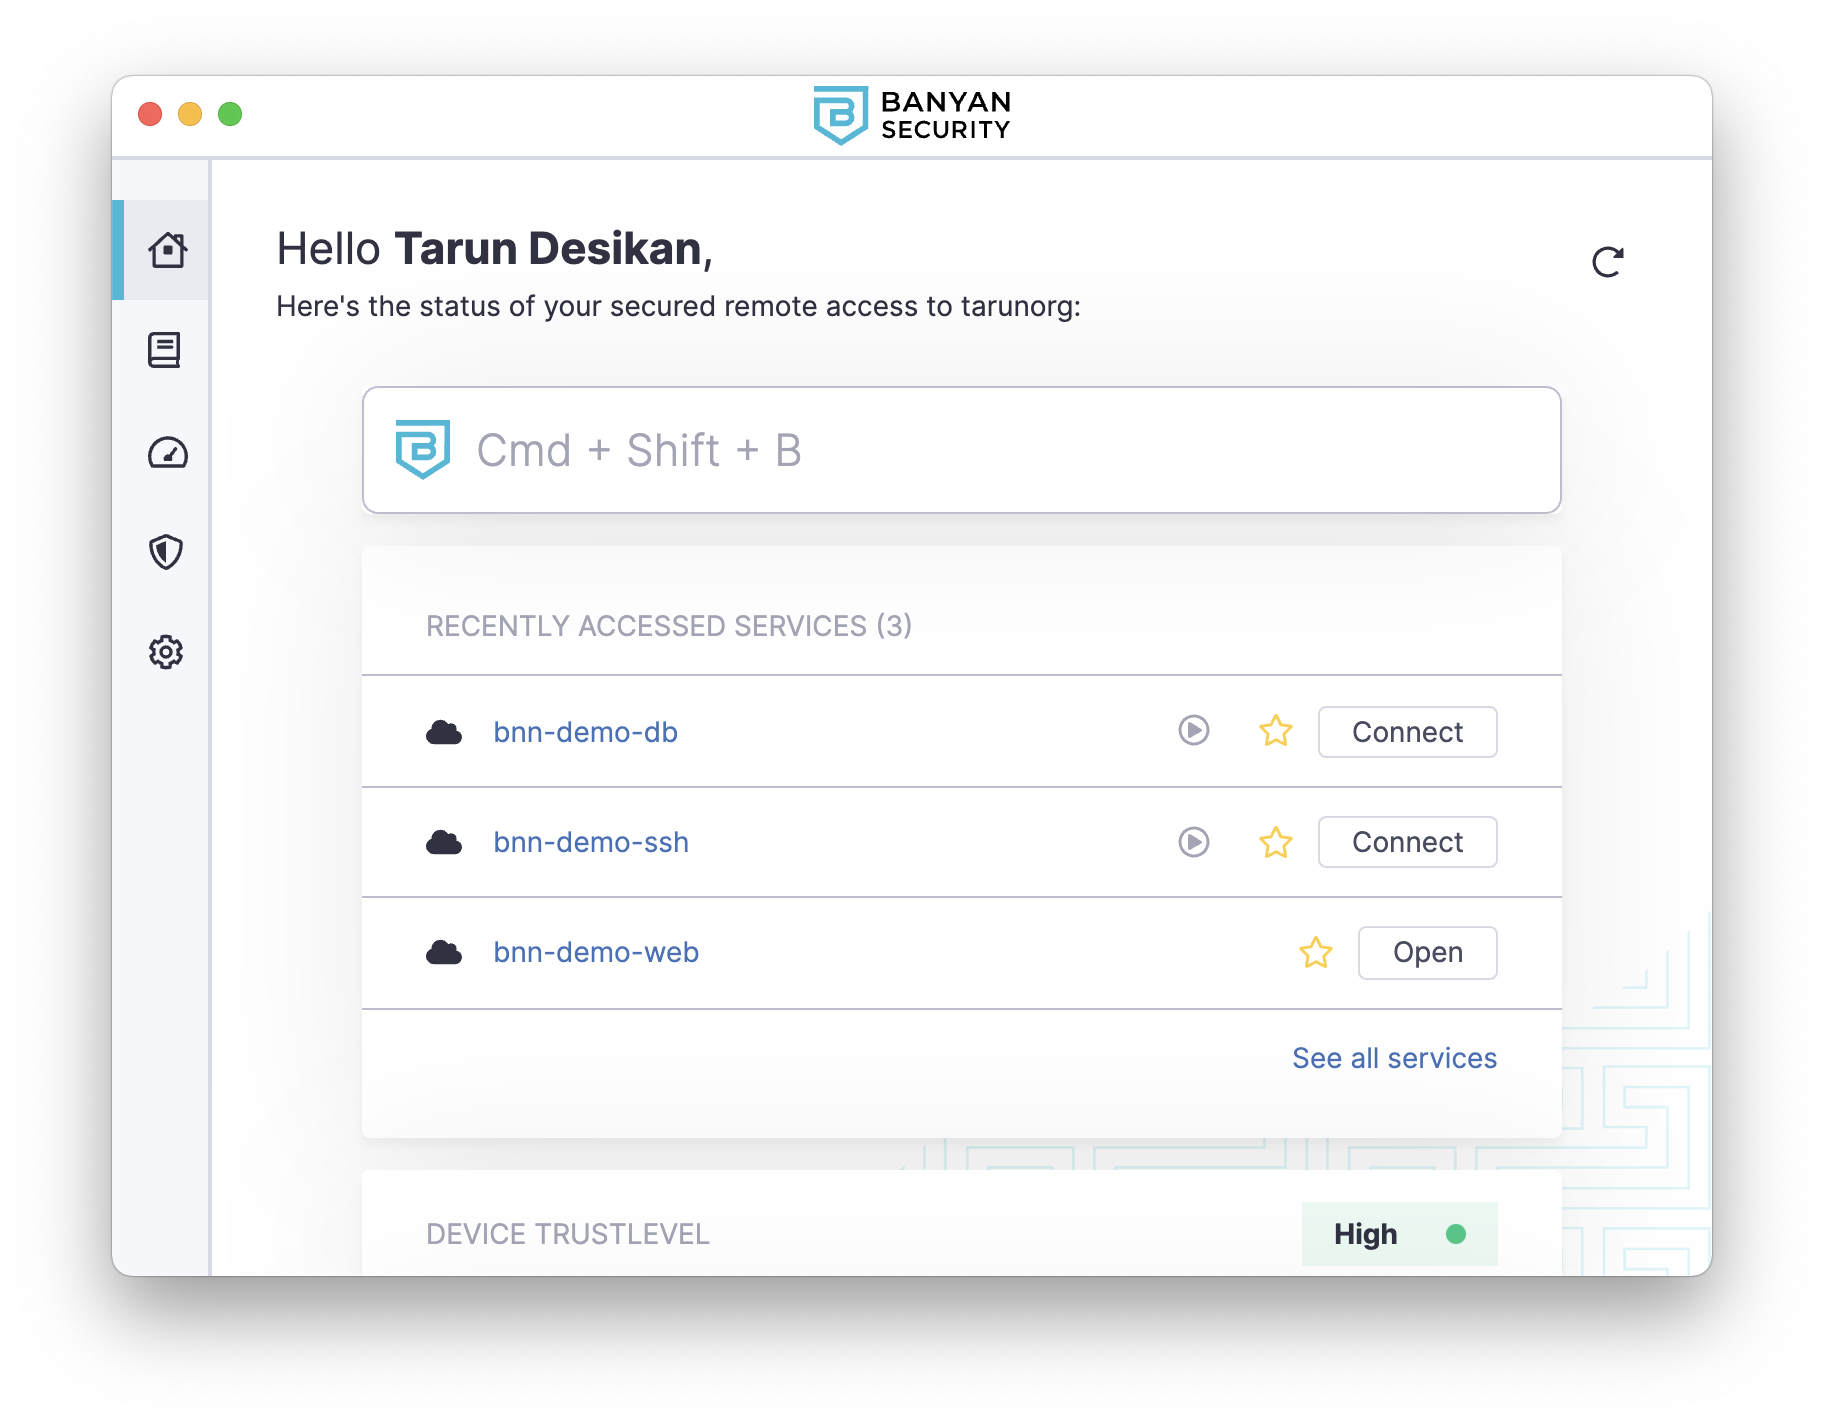
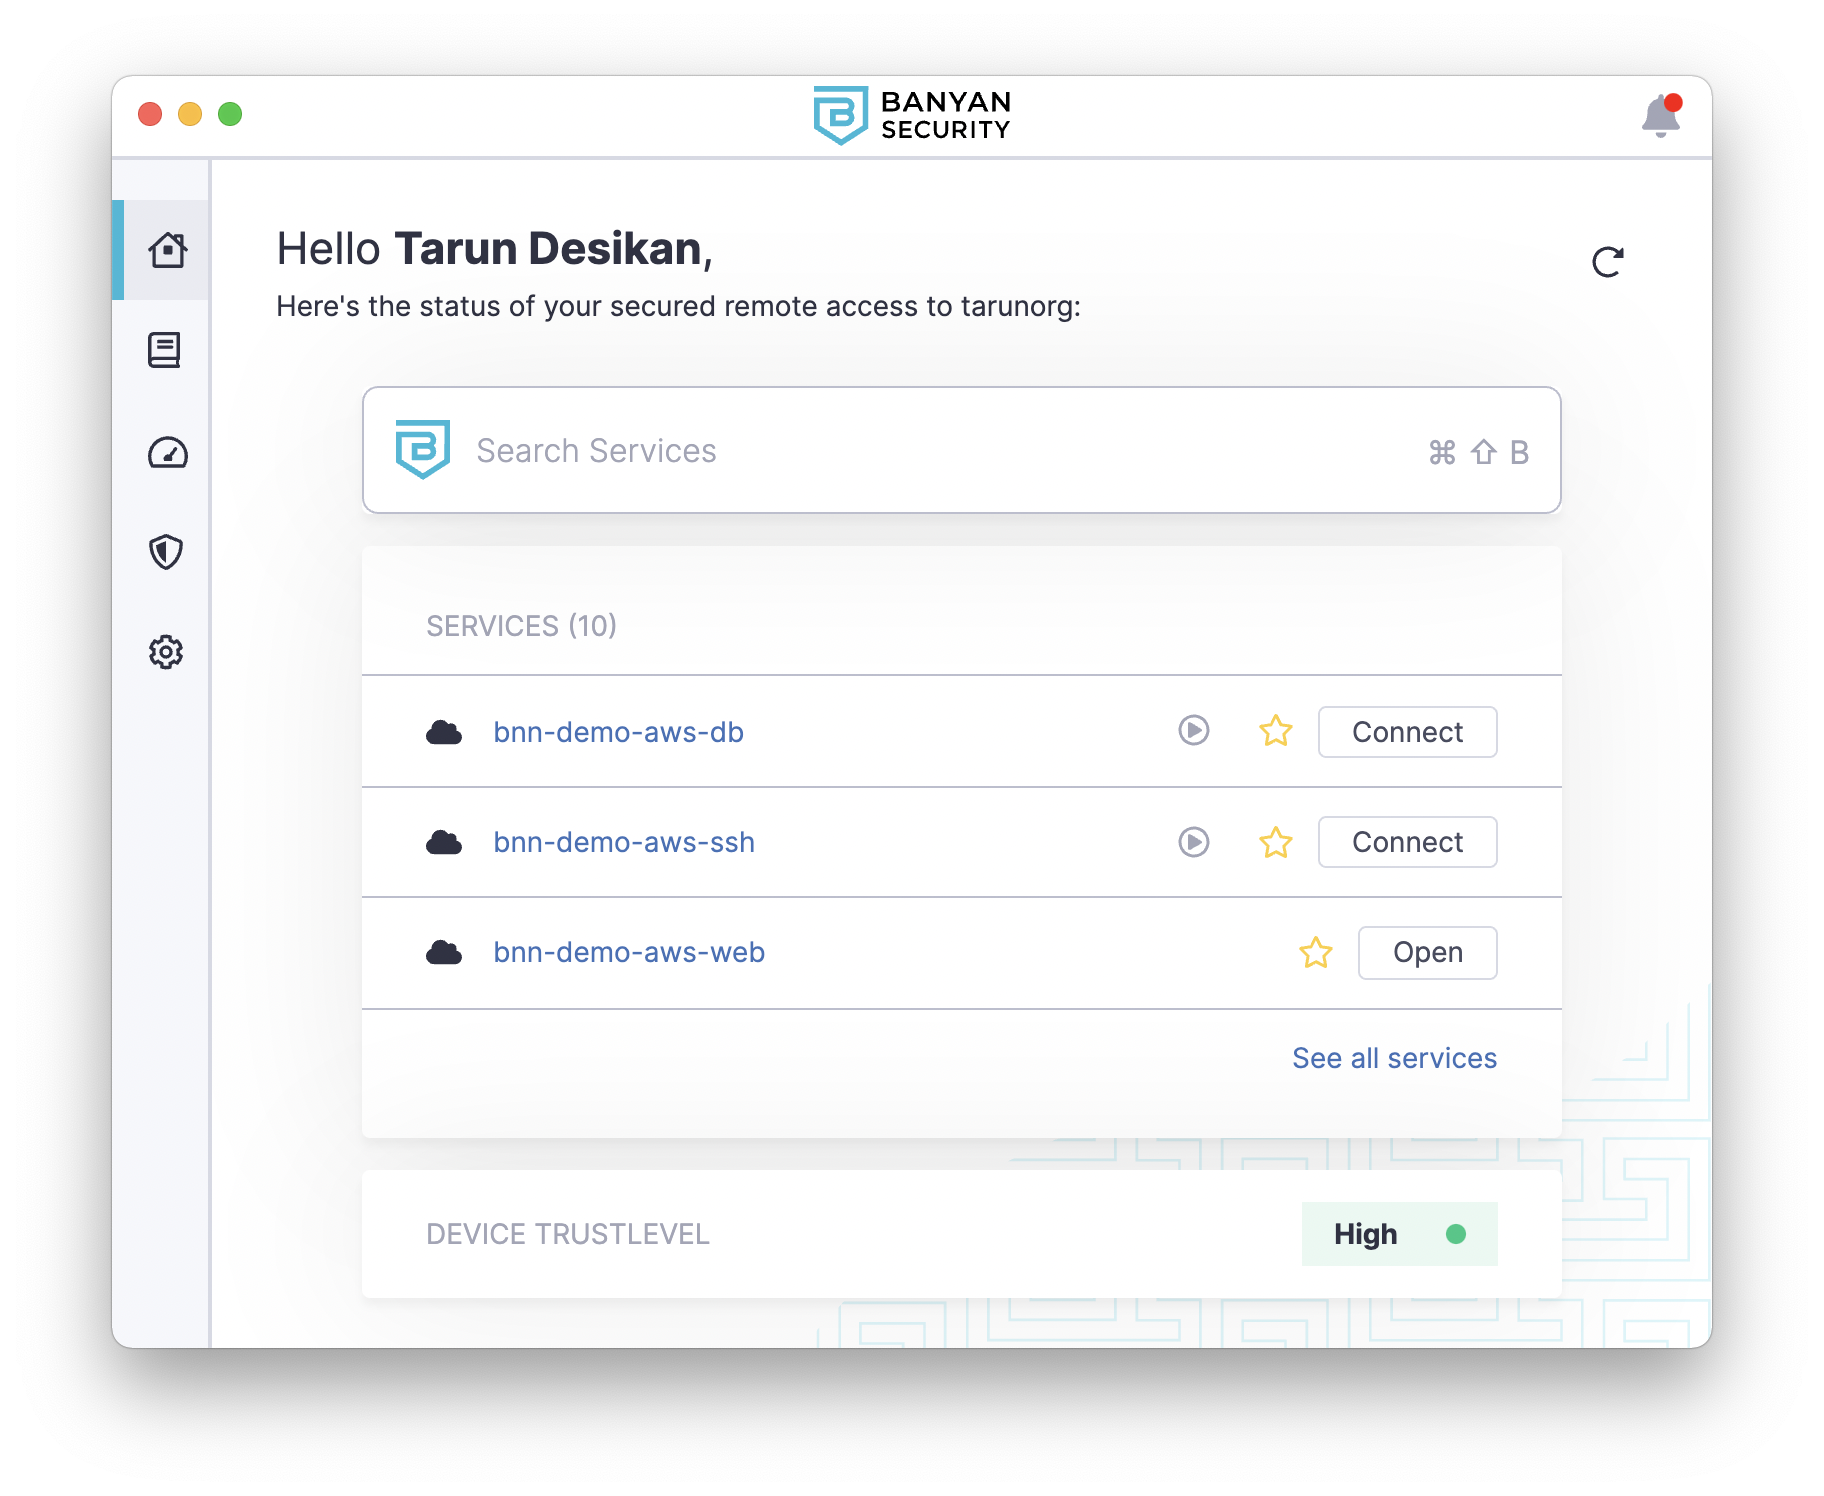
upgrade to 0.6.3, readme imgs

diff --git a/README.md b/README.md
@@ -5,9 +5,10 @@
 
 To run this demo, you will need the following:
 
-1. AWS account with credentials, and an EC2 key-pair
-2. Terraform CLI 0.14.9+, configured for AWS provisioning
-3. Banyan account and admin API key, and a device with the Banyan Desktop App installed
+1. AWS account with credentials
+2. An AWS EC2 key-pair for authentication into Linux VMs
+3. Terraform CLI 0.14.9+, configured for AWS provisioning
+4. Banyan account and admin API key, and a device with the Banyan Desktop App installed
 
 For instructions on how to set these up, go to the [Prerequisities Details section](#prerequisities-details).
 
@@ -18,7 +19,7 @@ Clone this repo to your machine. Edit the `locals.tf` file with details from you
 
 ```tf
 locals {
-  name_prefix = "bnn-demo"
+  name_prefix = "bnn-demo-aws"
 
   region = "us-east-1"
   profile = "default"  
@@ -39,7 +40,7 @@ terraform apply
 Provisioning is broken up into 6 steps; the code is written so you can run it step-by-step by specifying each step during the apply as: `terraform apply -target=module.network`
 
 1. **Network** - a new VPC with subnets
-2. **Database** - an RDS instance
+2. **Database** - an Amazon RDS for MySQL instance
 3. **Application** - an EC2 instance that runs a demo website container
 4. **Banyan Connector** - deploy an EC2 instance with the `connector` to create an outbound connection to the Banyan Global Edge network, so you can manage access to your AWS environment
 5. **Banyan Policies** - create a few roles and policies to establish which users and devices can access your AWS environment
@@ -58,57 +59,26 @@ To access your AWS resources from your device, open the Banyan App and click on 
 
 ![App](_img/app.png)
 
-Clicking "Open" on your web application `bnn-demo-web` will launch a new browser tab and take you the demo site after authentication.
+Clicking "Open" on your web application `bnn-demo-aws-web` will launch a new browser tab and take you the demo site after authentication.
 
 ![Demo Website](_img/web.png)
 
-To SSH into the Linux server, click "Connect" on the SSH service `bnn-demo-ssh`. Then run the SSH command with your EC2 key-pair as the credential:
+To SSH into the Linux server, click "Connect" on the SSH service `bnn-demo-aws-ssh`. Then run the SSH command with your EC2 key-pair as the credential:
 
 ```
-$ ssh -i YOUR_AWS_KEY_NAME ubuntu@bnn-demo-ssh
-Welcome to Ubuntu 20.04.4 LTS (GNU/Linux 5.13.0-1022-aws x86_64)
+ssh -i YOUR_AWS_KEY_NAME ubuntu@bnn-demo-ssh
+```
 
- * Documentation:  https://help.ubuntu.com
- * Management:     https://landscape.canonical.com
- * Support:        https://ubuntu.com/advantage
+![SSH Session](_img/ssh.png)
 
-  System information as of Fri Apr 22 03:19:02 UTC 2022
-
-...
-
-Last login: Fri Apr 22 03:18:47 2022 from 192.168.1.204
-
-ubuntu@ip-192-168-1-104:~$
-``` 
-
-To access your RDS instance, click "Connect" on the DB service `bnn-demo-db`. Then, fire up your favorite MySQL client and connect to your database at `127.0.0.1:8811`, using the credentials (`banyan:insecure` ) we configured via Terraform:
+To access your RDS instance, click "Connect" on the DB service `bnn-demo-aws-db`. Then, fire up your favorite MySQL client and connect to your database at `127.0.0.1:8811`, using the credentials (`banyan:insecure` ) we configured via Terraform:
 
 ```
-$ mysql --host=127.0.0.1 --port=8811 --user=banyan --password=insecure
-mysql: [Warning] Using a password on the command line interface can be insecure.
-Welcome to the MySQL monitor.  Commands end with ; or \g.
-Your MySQL connection id is 1369
-Server version: 5.7.37 Source distribution
-
-...
-
-Type 'help;' or '\h' for help. Type '\c' to clear the current input statement.
-
-mysql> show databases;
-+--------------------+
-| Database           |
-+--------------------+
-| information_schema |
-| innodb             |
-| mydb               |
-| mysql              |
-| performance_schema |
-| sys                |
-+--------------------+
-6 rows in set (0.11 sec)
-
-mysql>
+mysql --host=127.0.0.1 --port=8811 --user=banyan --password=insecure
 ```
+
+![Database Client](_img/db.png)
+
 
 Behind the scenes, Banyan uses [short-lived cryptographic credentials](https://docs.banyansecurity.io/docs/intro/concepts/services/) to connect you to your AWS resources and a [zero trust security model](https://docs.banyansecurity.io/docs/intro/concepts/policies/) to enforce access control policies.
 
